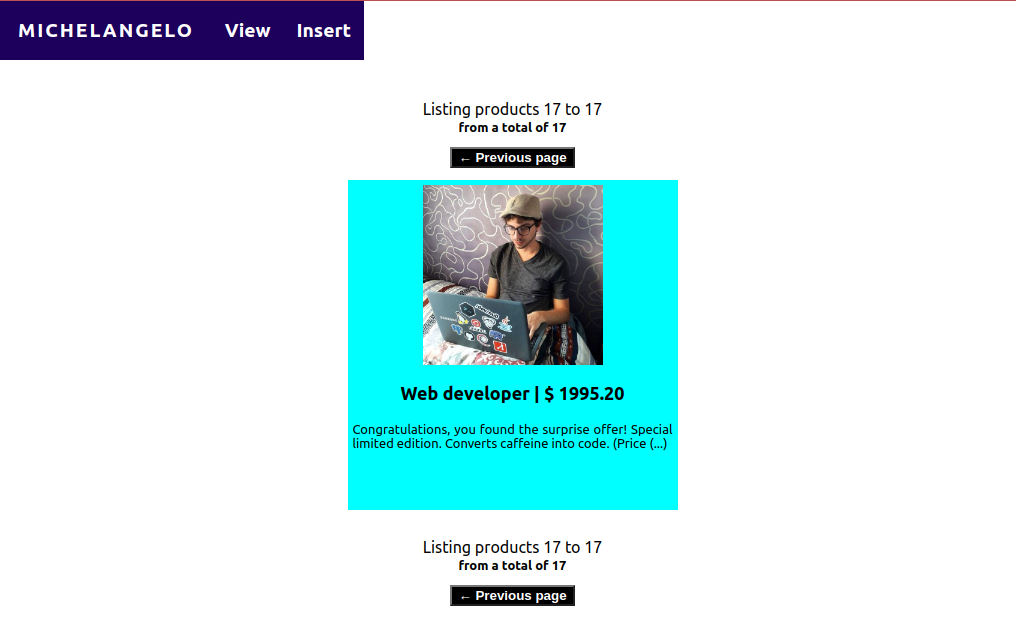
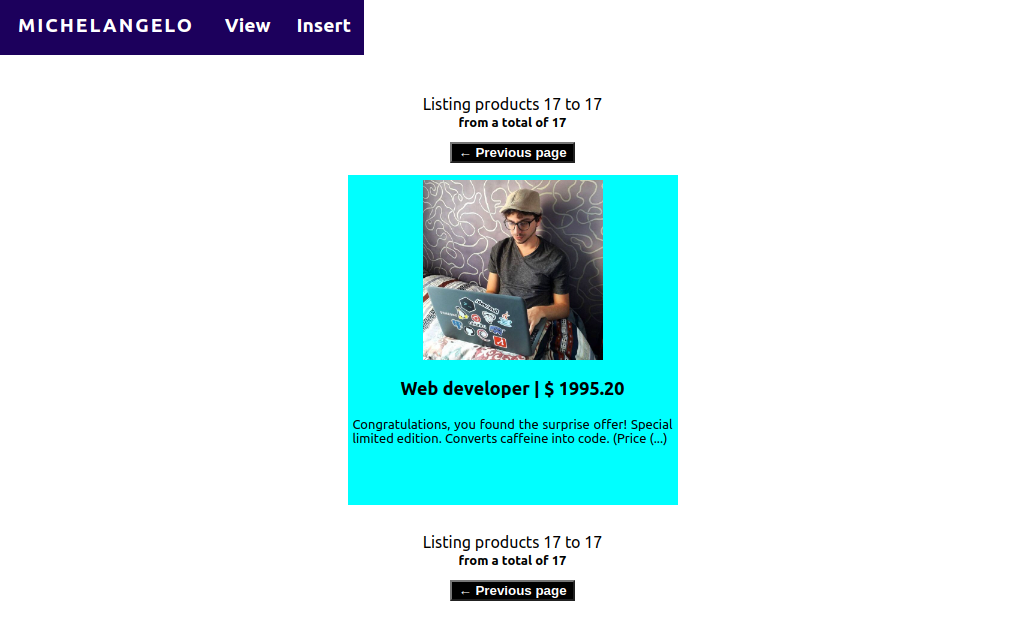
fix: crop screenshots correctly

diff --git a/README.md b/README.md
@@ -12,7 +12,11 @@ This is the Python (Flask) rewrite of a project I originally did with Node.js. Y
 
 ![Screenshot 1](/screenshot-1.png)
 
+---
+
 ![Screenshot 2](/screenshot-2.png)
+
+---
 
 ![Screenshot 3](/screenshot-3.png)
 
